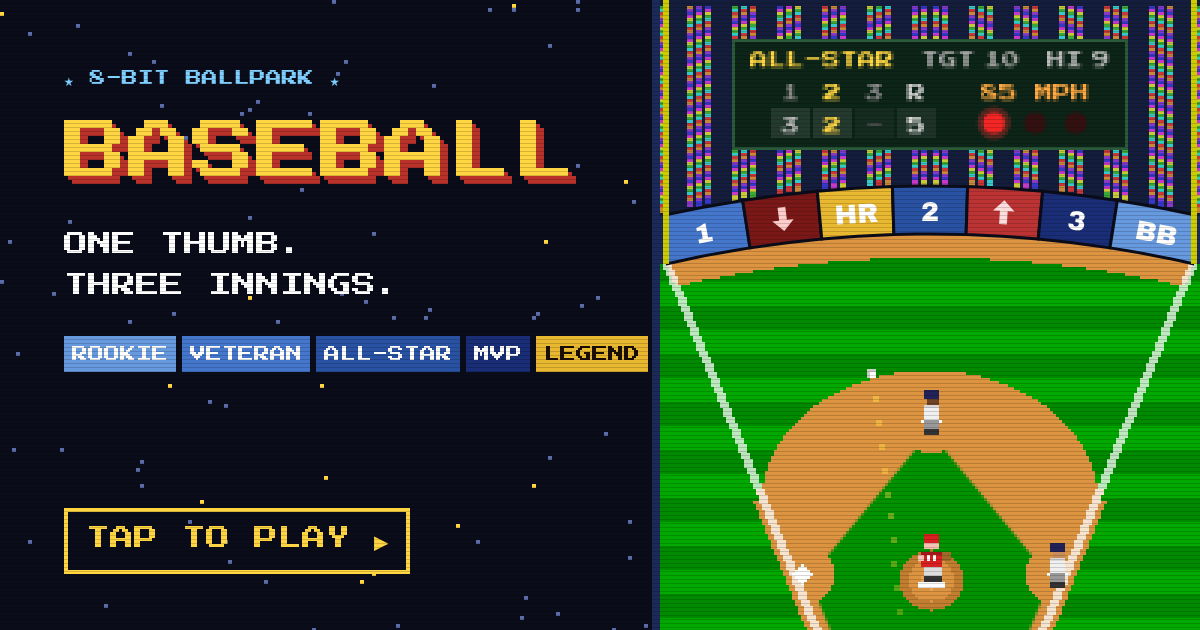
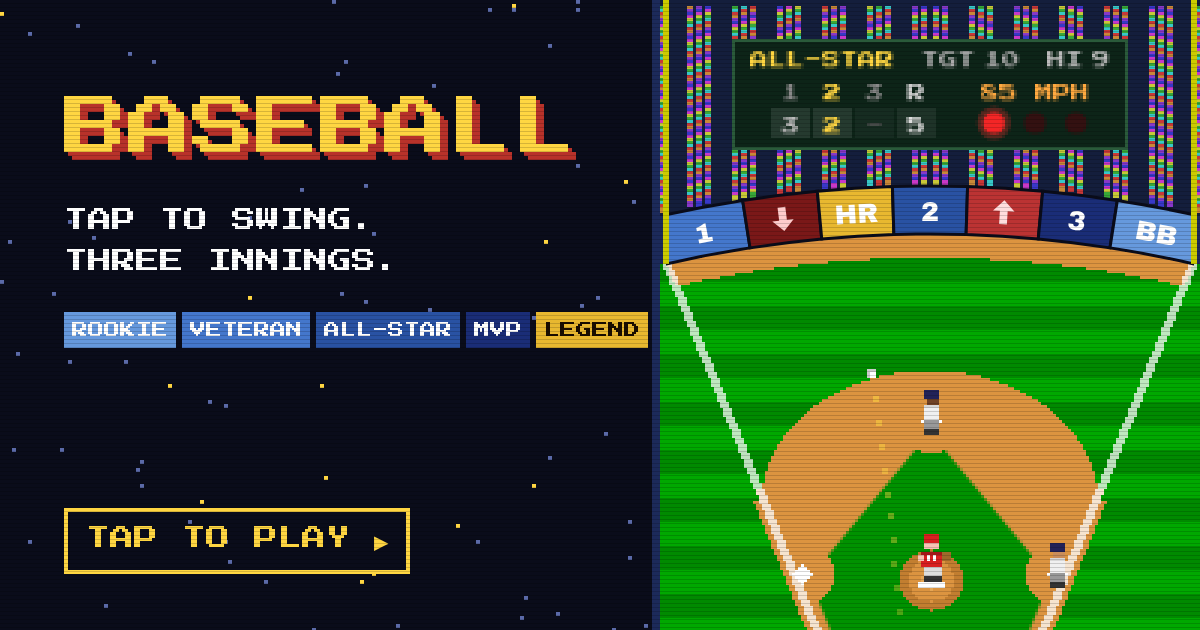
Lower, smaller title menu; tap-to-swing copy
Mode switch joins Exhibition/Glossary near the bottom so the middle of
the title screen is free to tap; menu buttons ~20% smaller. Preview
image and description say "tap to swing".

Claude-Session: https://claude.ai/code/session_017HLWcxrESTQUFMfoaguUGE

Changed region(s): [[0.0308, 0.3317, 0.555, 0.6032], [0.0308, 0.0905, 0.4933, 0.3016]]

diff --git a/index.html b/index.html
@@ -1,6 +1,6 @@
 <!doctype html><html><head><meta charset=utf8><meta name=viewport content="width=device-width,initial-scale=1,viewport-fit=cover"><style>:root{color-scheme:light;box-sizing:border-box;padding-top:env(safe-area-inset-top,0px);padding-bottom:env(safe-area-inset-bottom,0px)}html{scroll-padding-top:env(safe-area-inset-top,0px)}body{margin:0;padding:0;font:14px -apple-system,BlinkMacSystemFont,sans-serif;background:#fff;color:#000}img{max-width:100%}[hidden]:not([hidden=until-found i]){display:none!important}</style>
 <title>Baseball</title>
-<meta name="description" content="A one-thumb pixel baseball game. Time your swing, hit the wall, score runs from Rookie to Legend.">
+<meta name="description" content="A tap-to-swing pixel baseball game. Time it right, hit the wall, score runs from Rookie to Legend.">
 <meta name="theme-color" content="#0a0c1a">
 <link rel="canonical" href="https://twitchdodge.github.io/baseball/">
 <link rel="icon" href="favicon.ico" sizes="any">
@@ -16,14 +16,14 @@
 <meta property="og:site_name" content="Baseball">
 <meta property="og:url" content="https://twitchdodge.github.io/baseball/">
 <meta property="og:title" content="Baseball">
-<meta property="og:description" content="A one-thumb pixel baseball game. Time your swing, hit the wall, score runs from Rookie to Legend.">
+<meta property="og:description" content="A tap-to-swing pixel baseball game. Time it right, hit the wall, score runs from Rookie to Legend.">
 <meta property="og:image" content="https://twitchdodge.github.io/baseball/og-image.png">
 <meta property="og:image:width" content="1200">
 <meta property="og:image:height" content="630">
 <meta property="og:image:alt" content="Pixel-art baseball stadium with the scoreboard and outfield wall zones">
 <meta name="twitter:card" content="summary_large_image">
 <meta name="twitter:title" content="Baseball">
-<meta name="twitter:description" content="A one-thumb pixel baseball game. Time your swing, hit the wall, score runs from Rookie to Legend.">
+<meta name="twitter:description" content="A tap-to-swing pixel baseball game. Time it right, hit the wall, score runs from Rookie to Legend.">
 <meta name="twitter:image" content="https://twitchdodge.github.io/baseball/og-image.png">
 </head><body>
 <title>Baseball</title>
@@ -98,8 +98,8 @@ canvas{display:block;width:100%;height:100%;image-rendering:pixelated;image-rend
 .sX{font-size:clamp(14px,3.5vw,22px)}.sX.g{color:var(--gold)}
 .blink{animation:bl 1s step-end infinite}@keyframes bl{50%{opacity:0}}
 /* menu buttons on the title and pause screens: big, boxed tap targets (the rest of the screen means "play") */
-.tBtns{display:flex;flex-direction:column;align-items:stretch;gap:10px;pointer-events:auto;min-width:62%}
-.tBtn{font-size:clamp(12px,3.3vw,19px);padding:12px 16px;border:2px solid #556;border-radius:4px;color:#c6c9d6;
+.tBtns{display:flex;flex-direction:column;align-items:stretch;gap:8px;pointer-events:auto;min-width:50%}
+.tBtn{font-size:clamp(10px,2.65vw,15px);padding:10px 13px;border:2px solid #556;border-radius:4px;color:#c6c9d6;
   background:rgba(10,12,26,.6);cursor:pointer;text-align:center;pointer-events:auto}
 .tBtn.seg{flex:1}.tBtn.seg+.tBtn.seg{margin-left:-2px}
 .tBtn.on{border-color:var(--gold);color:var(--gold);background:rgba(255,214,66,.12);position:relative}
@@ -163,7 +163,8 @@ canvas{display:block;width:100%;height:100%;image-rendering:pixelated;image-rend
 <div class="ol" id="innLbl"></div>
 <div class="ol" id="scorLbl"></div>
 <div class="ol" id="streakLbl"></div>
-<div class="scr show" id="titleScr">
+<div class="scr show" id="titleScr" style="justify-content:flex-start">
+  <div style="flex:none;height:calc(24.5% - clamp(8px,2.5vw,16px))"></div><!-- keeps the title block where it sat before the menu moved down -->
   <div id="musicBtn" title="Play 'Take Me Out to the Ball Game'">
     <svg viewBox="0 0 11 10" shape-rendering="crispEdges" aria-hidden="true">
       <rect x="4" y="0" width="7" height="2"/><rect x="4" y="2" width="1" height="4"/><rect x="10" y="2" width="1" height="4"/>
@@ -174,9 +175,9 @@ canvas{display:block;width:100%;height:100%;image-rendering:pixelated;image-rend
   <div class="sT">BASEBALL</div>
   <div class="sS" style="color:var(--gold)">Score 5+ runs in 3 innings</div>
   <div class="sS blink">TAP TO PLAY</div>
-  <div id="modeRow" class="tBtns" style="margin-top:7%;flex-direction:row;gap:0">
-    <span data-m="full" class="tBtn seg">FULL</span><span data-m="simple" class="tBtn seg">SIMPLE</span></div>
-  <div class="tBtns" style="margin-top:9%">
+  <!-- menu sits low so the middle of the screen is free to tap and play -->
+  <div class="tBtns" style="position:absolute;bottom:11%">
+    <div id="modeRow" style="display:flex"><span data-m="full" class="tBtn seg">FULL</span><span data-m="simple" class="tBtn seg">SIMPLE</span></div>
     <div id="exhBtn" class="tBtn">EXHIBITION MODE</div>
     <div id="glossBtn" class="tBtn">GLOSSARY</div></div>
 </div>
